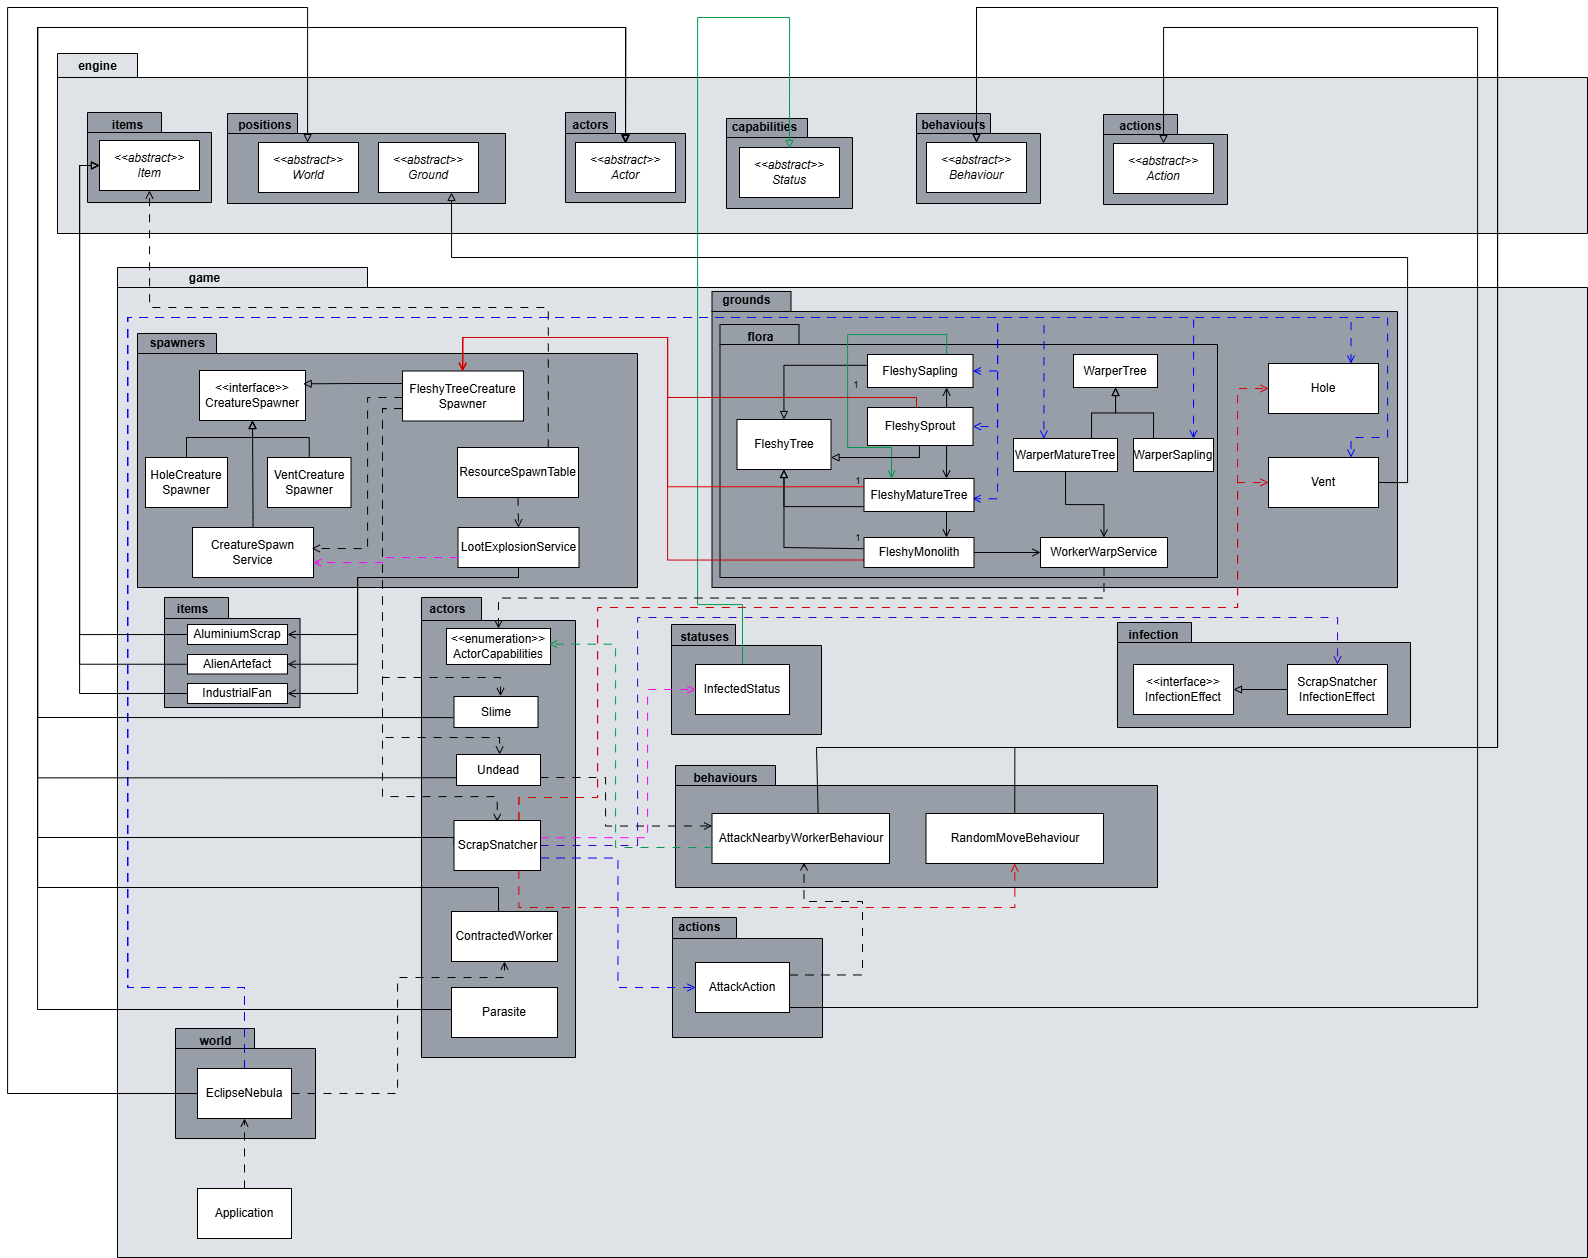
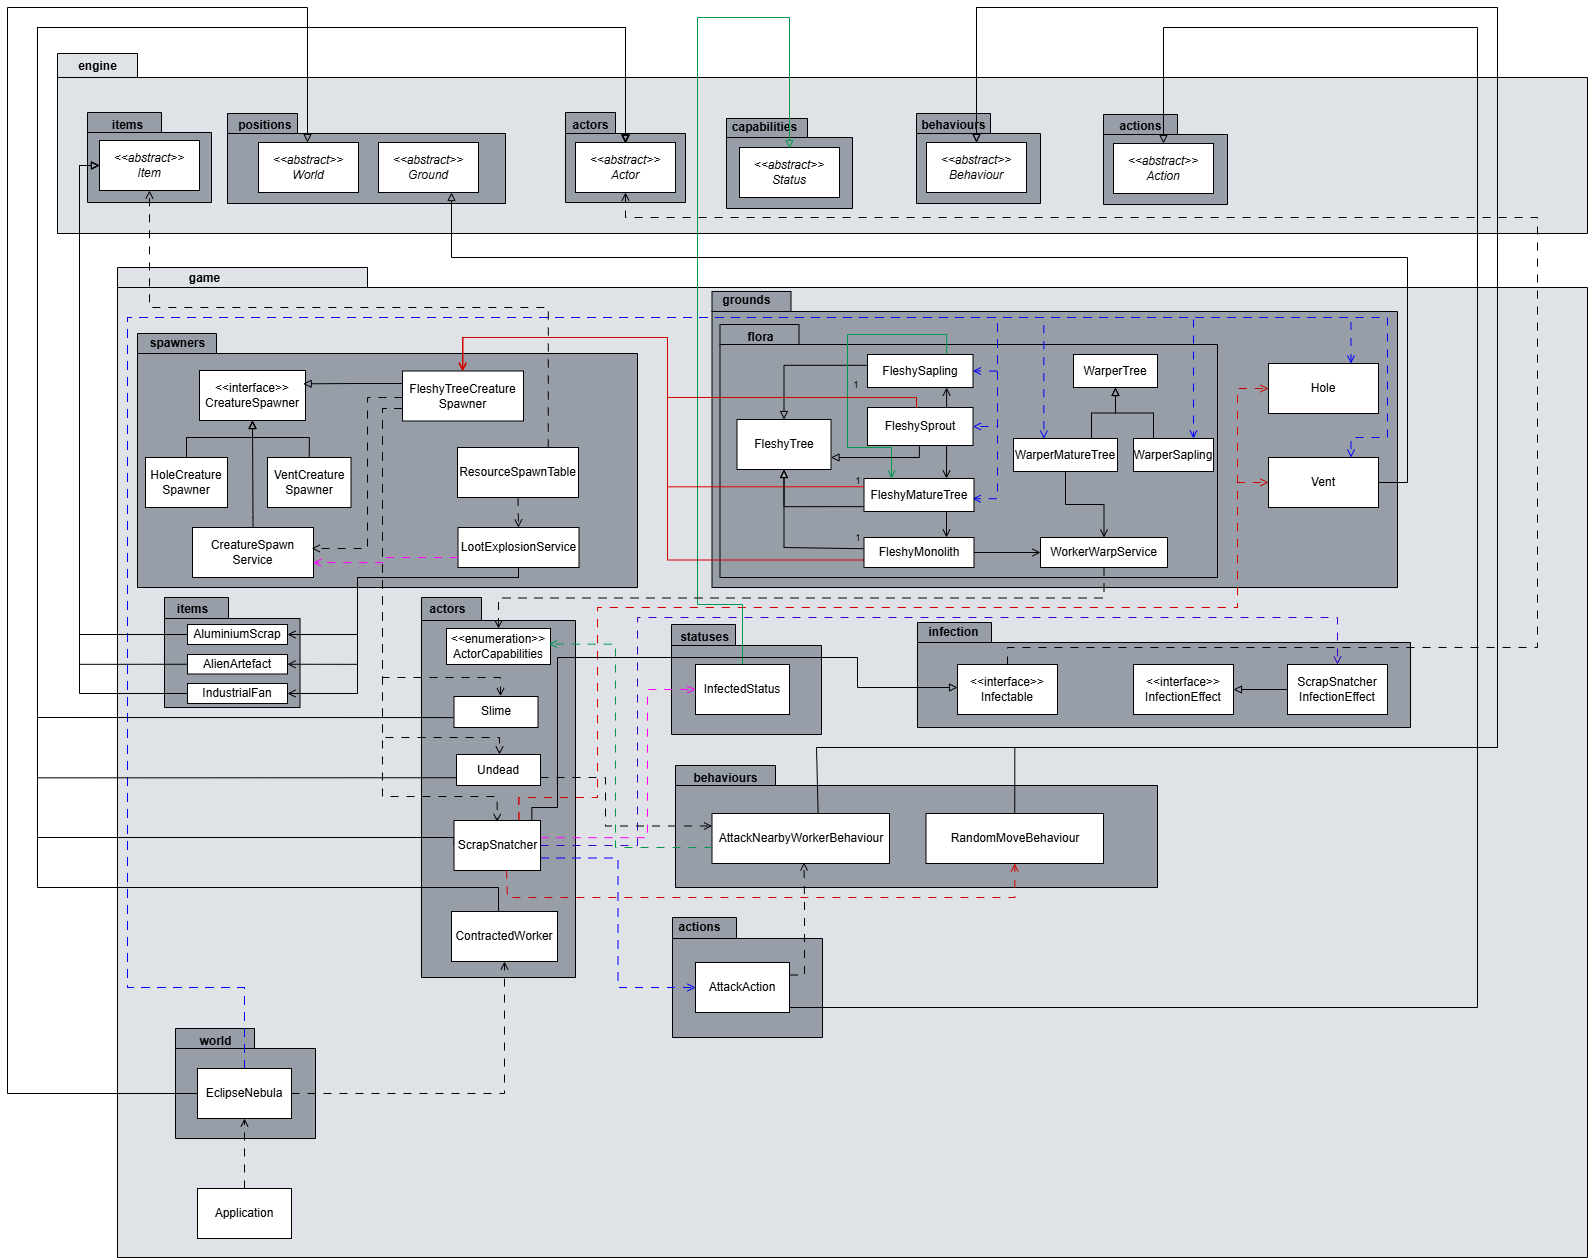
Removed RandomMoveBehaviour from Parasite and updated uml accordingly

Changed region(s): [[0.5554, 0.496, 0.7714, 0.589], [0.2469, 0.775, 0.3703, 0.868]]

diff --git a/src/main/java/game/actors/Parasite.java b/src/main/java/game/actors/Parasite.java
@@ -9,7 +9,6 @@ import edu.monash.fit2099.engine.displays.Display;
 import edu.monash.fit2099.engine.positions.GameMap;
 import edu.monash.fit2099.engine.positions.Location;
 import game.behaviours.InfectNearbyTargetBehaviour;
-import game.behaviours.RandomMoveBehaviour;
 import game.inventory.BasicInventory;
 
 import java.util.Map;
@@ -21,8 +20,7 @@ import java.util.TreeMap;
  * Otherwise, it wanders randomly.
  *
  * @author Shrabonti Majumder
- * @author Amra Anver
- * @version 2.0
+ * @version 1.0
  */
 public class Parasite extends Actor {
 
@@ -44,7 +42,6 @@ public class Parasite extends Actor {
         this.enableAbility(ActorCapabilities.CREATURE);
         this.enableAbility(ActorCapabilities.PARASITE);
         behaviours.put(1, new InfectNearbyTargetBehaviour());
-        behaviours.put(999, new RandomMoveBehaviour());
     }
 
     /**
